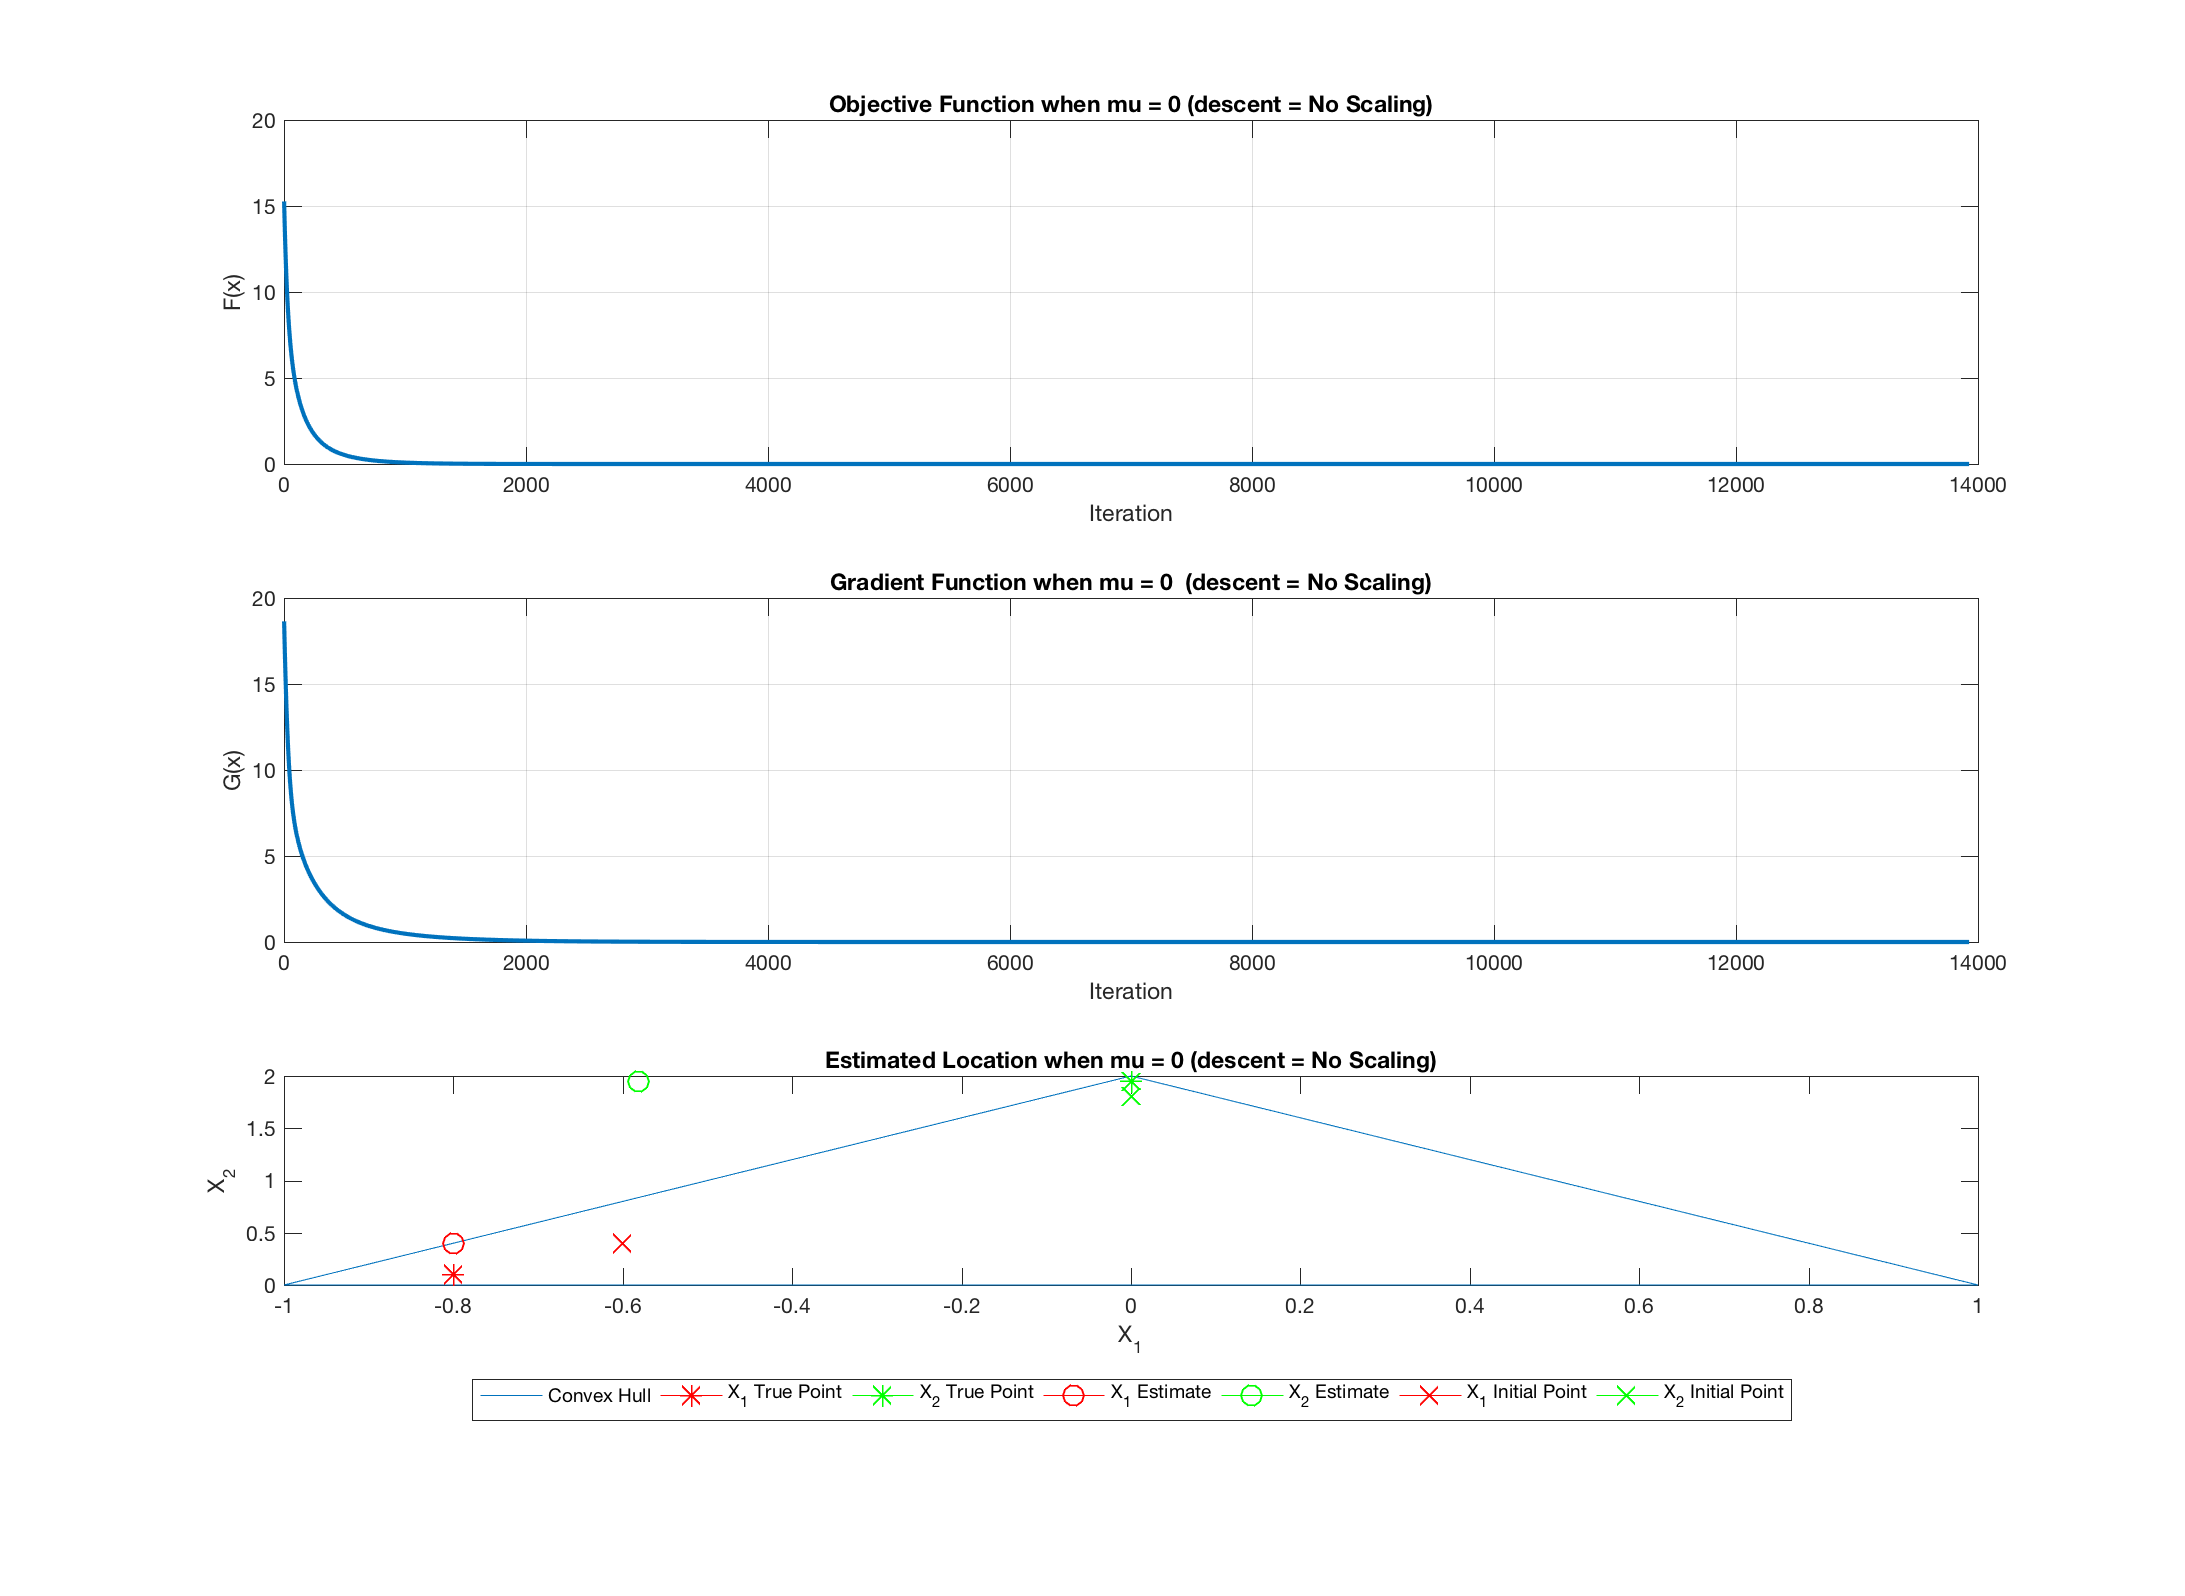
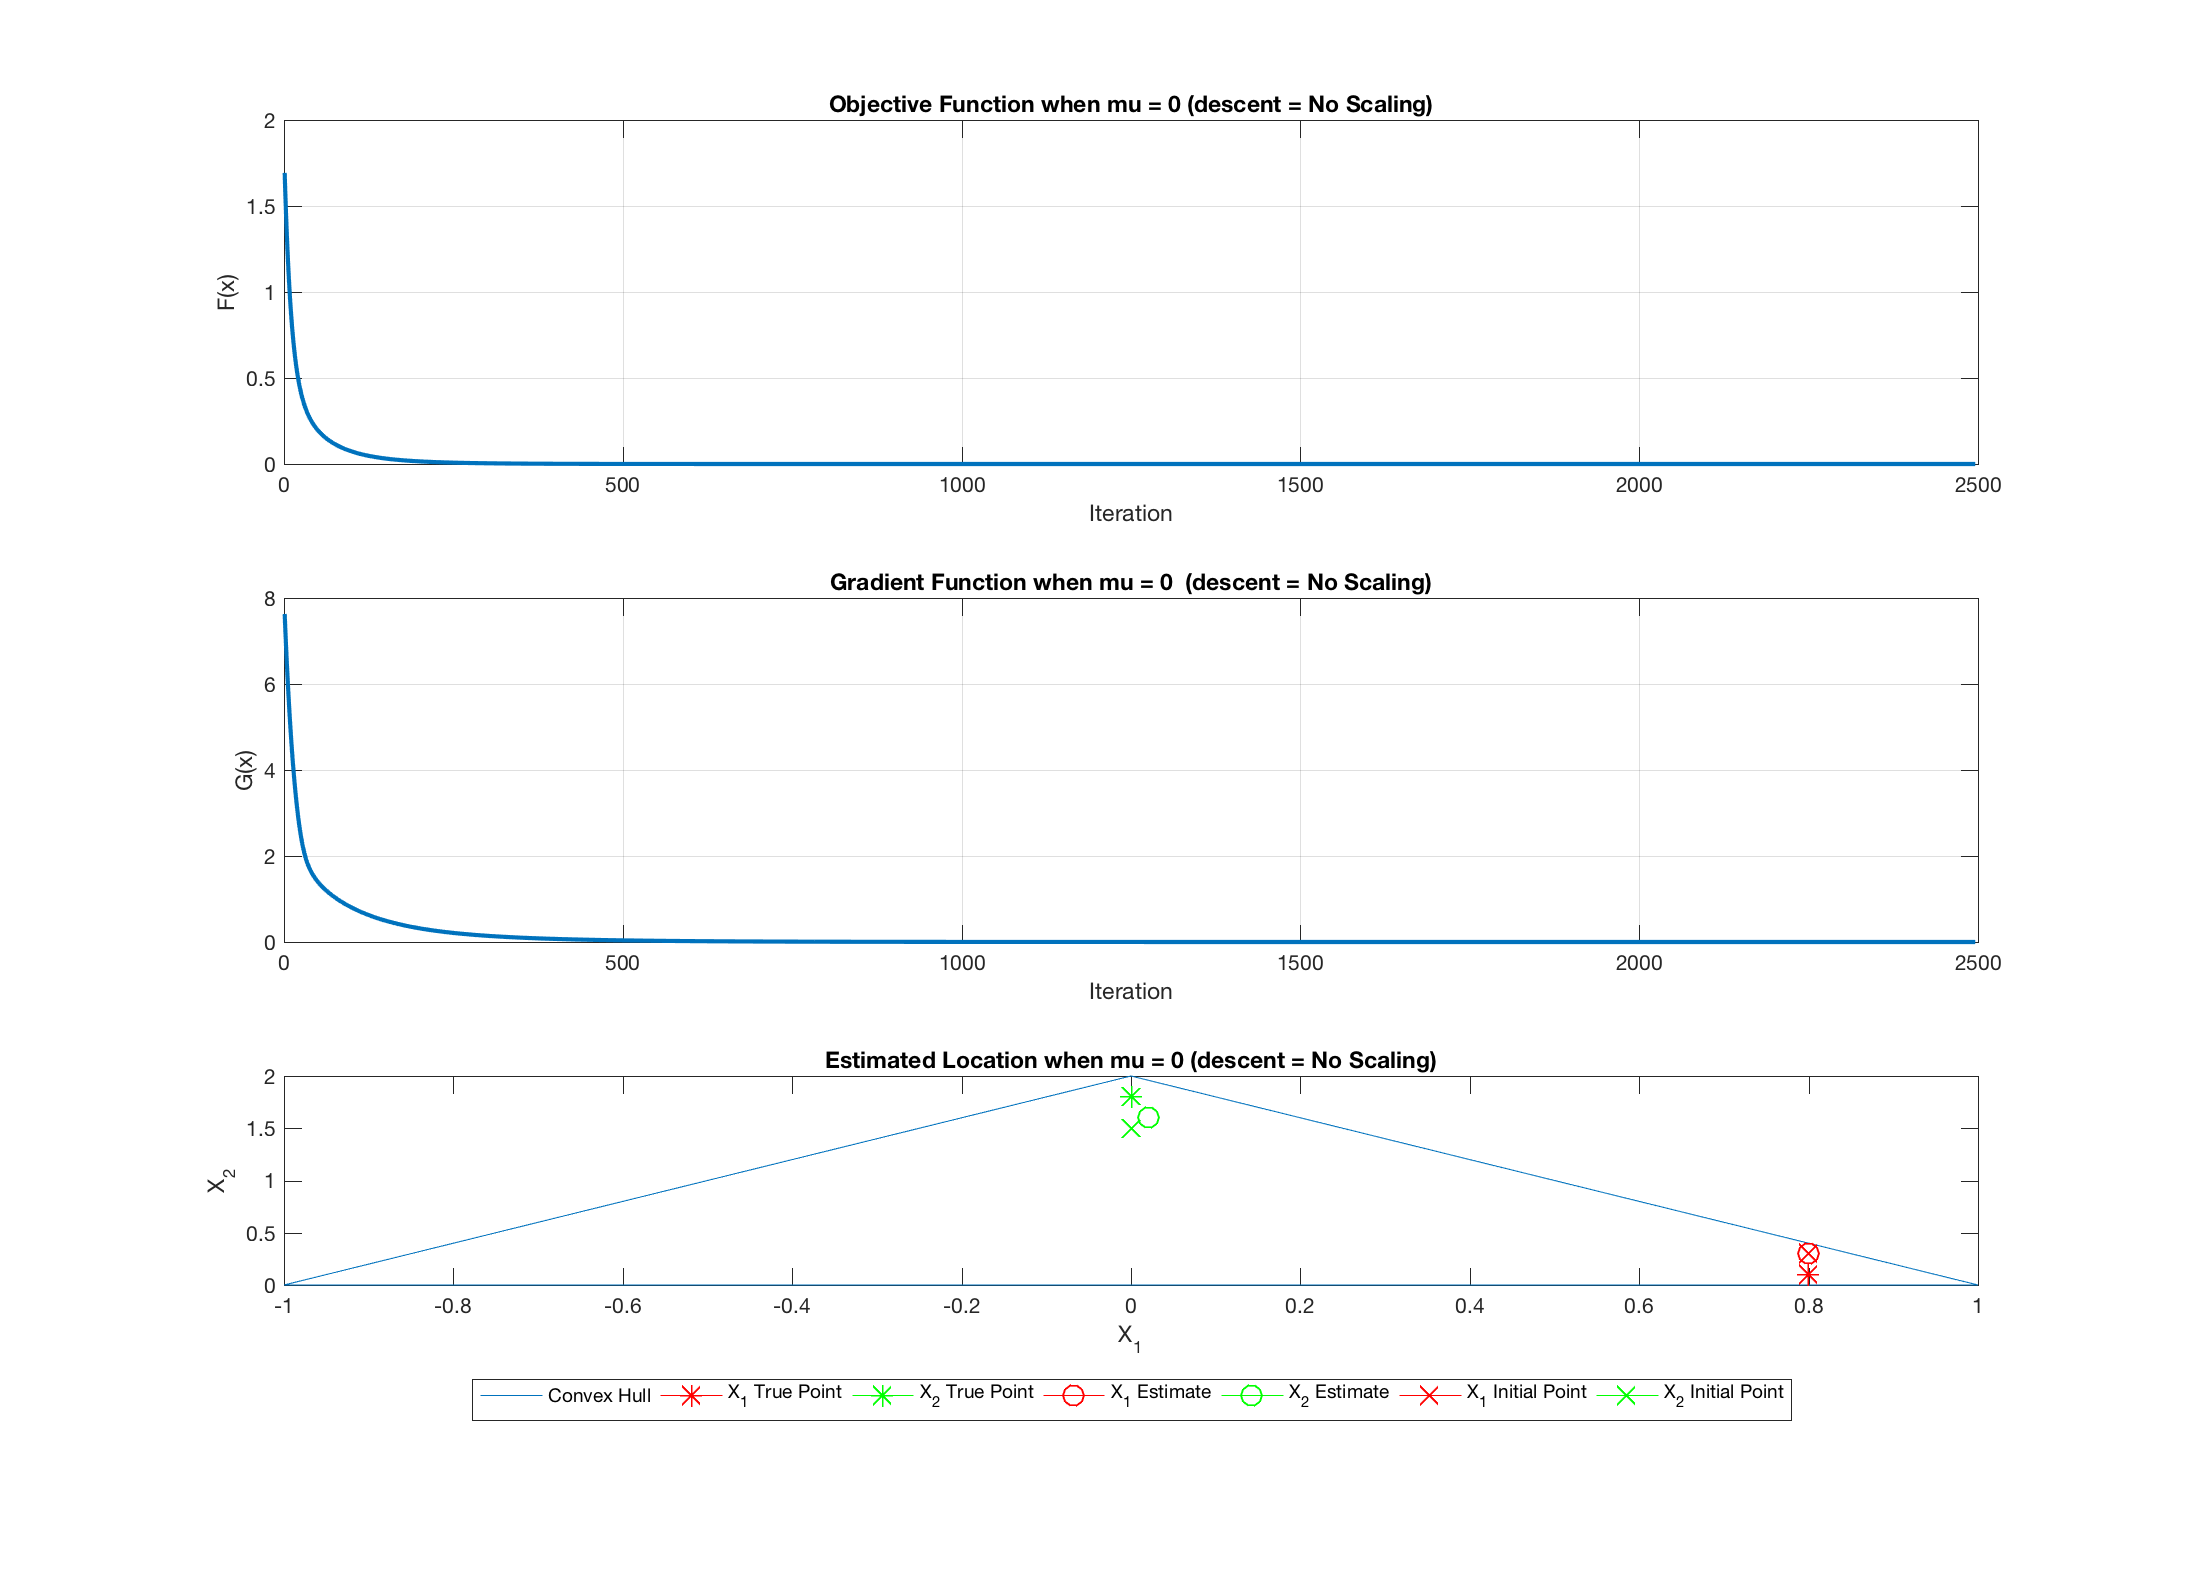
siiiit'

diff --git a/HW3/problem8d.m b/HW3/problem8d.m
@@ -79,35 +79,35 @@ for i=1:5
 end
 %%
     
-x1_true = [-.8;.1];
-x2_true = [0; 1.95];
+x1_true = [.8;.1];
+x2_true = [0; 1.8];
 
-x1_initial = [-.6; .4];
-x2_intial = [0; 1.8];
+x1_initial = [.8; .3];
+x2_initial = [0; 1.5];
 
 b(1:2) = (pdist2(x1_true', a(:,1:2)')').^2;
 b(3:4) = (pdist2(x2_true', a(:,2:3)')').^2;
 b(5) = (pdist2(x2_true', x1_true')').^2;
 
 X = eye(4,4);
-X(end-1:end,1:2) = [x1_initial,x2_intial]';
-X(1:2, end-1:end) = [x1_initial,x2_intial];
-X(end,end) = 6.5
+X(end-1:end,1:2) = [x1_initial,x2_initial]';
+X(1:2, end-1:end) = [x1_initial,x2_initial];
+X(end,end) = 3.5
 
 f = @(A,X,mu)(.5*norm(squeeze(sum(dot(A, repmat(X,1,1,size(A,3))))) - b,2)^2 - mu*log(det(X)))
 df_affine = @(A,X,mu)(X*sum(A .* repmat(reshape(squeeze(sum(dot(A,repmat(X,1,1, size(A,3))))) - b,1,1,size(A,3)),4,4,1),3)*X - mu*X)
 df_reg = @(A,X,mu)(sum(A .* repmat(reshape(squeeze(sum(dot(A,repmat(X,1,1, size(A,3))))) - b,1,1,size(A,3)),4,4,1),3) - mu*inv(X))
 
-
+mus = linspace(0,10e-4,2)
 %%
-ALPHA = .05;
-MAX_ITER = 1000000;
-TOL = 1.e-10;
+ALPHA = .05
+MAX_ITER = 100000;
+TOL = 1.e-6;
 x_true = horzcat(x1_true,x2_true);
 %%
 X_final = zeros(size(mus,2),2,1)
 for i=1:size(mus,2)
-[tmp1, tmp2,tmp3] = SDP_REGRESSION_HW2(f, df_reg, A,X,mus(i),x_true,TOL, MAX_ITER, 1/ALPHA,a,1, 'No Scaling')
+[tmp1, tmp2,tmp3] = SDP_REGRESSION_HW2(f, df_reg, A,X,mus(i),x_true,TOL, MAX_ITER, 1/ALPHA,a,0, 'No Scaling')
 [tmp1, tmp2,tmp3] = SDP_REGRESSION_HW2(f, df_affine, A,X,mus(i),x_true,TOL, MAX_ITER, 1/ALPHA,a,1, 'Affine Scaling');
 
 end

diff --git a/HW3/SDP_REGRESSION_HW2.m b/HW3/SDP_REGRESSION_HW2.m
@@ -48,7 +48,7 @@ while iter < MAX_ITER
     gvals(iter) = norm(df(A,X_new,mu));
     
     
-    norm_grad = norm(df(A,X_new, mu),2);
+    norm_grad = norm(df(A,X_new, mu));
     delta_f = fvals(iter) - fvals(iter - 1);
     
     delta_x = norm(X_new - X_prev,2);
@@ -73,6 +73,8 @@ x2_final = X_prev(end,1:2);
 
 
 fig = figure();
+
+
 
 subplot(3,1,1)
 plot(1:iter, fvals, 'LineWidth',2); grid on;
